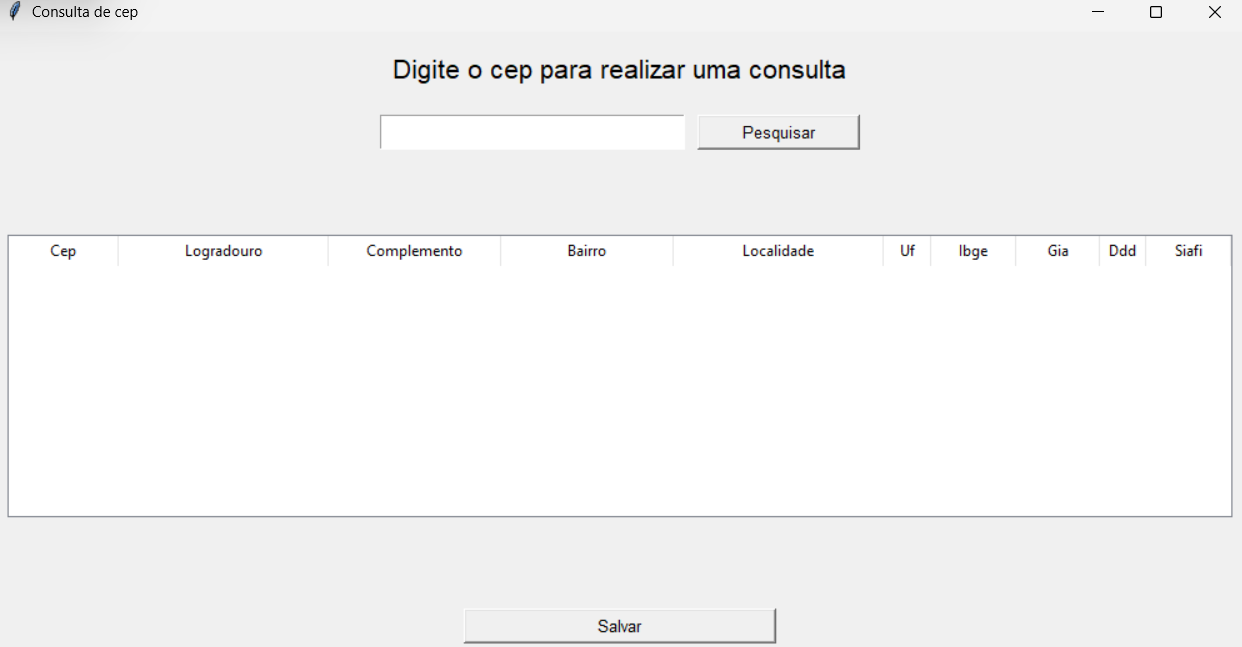
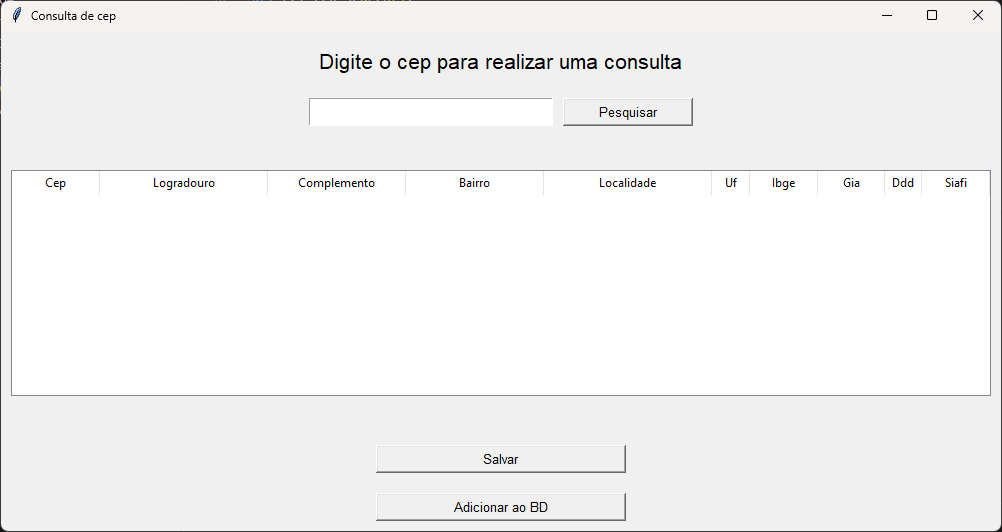
Implementando função insert tabela + README

diff --git a/API_Cep/Cep.py b/API_Cep/Cep.py
@@ -1,6 +1,7 @@
 import requests
 import json
 import os 
+import pyodbc
 from tkinter import  *
 from tkinter import filedialog
 from tkinter import ttk
@@ -8,6 +9,13 @@ from tkinter import messagebox
 
 
 salvar_resultado = None
+       
+conexao_bd = (
+    "Driver={SQL Server};"
+    "Server=.;"  #localhost
+    "Database=TabelaCep;"
+    "Trusted_Connection=yes;"
+)
 
 os.system('cls' if os.name=='nt' else 'clear')
 def get_by_cep(cep):
@@ -69,6 +77,35 @@ def save_file():
         except Exception as e:
             messagebox.showerror("Erro ao salvar, não foi possível salvar o arquivo")
 
+def insert_data_bd():
+    global salvar_resultado
+    if not salvar_resultado:
+        messagebox.showerror("Erro ao adicionar, nenhum CEP consultado") 
+        return
+    
+    ordem_campos_sql = [
+        'CEP', 'Logradouro', 'Complemento', 'Bairro', 'Localidade','UF', 'IBGE', 'GIA', 'DDD', 'SIAFI'
+    ]
+
+    valores_sql=[
+        salvar_resultado.get(campo.lower(),None)
+        for campo in ordem_campos_sql
+
+    ]
+    insert_sql = f"""
+        INSERT INTO dadosCEP({', '.join(ordem_campos_sql)})
+        VALUES ({', '.join(['?']*len(ordem_campos_sql))})
+    """
+
+    conexao = pyodbc.connect(conexao_bd)
+    cursor = conexao.cursor()
+
+    cursor.execute(insert_sql,valores_sql)
+    conexao.commit()
+    messagebox.showinfo("Sucesso, dado adicionado ao banco de dados com sucesso!")
+    conexao.close()
+
+
 janela = Tk()
 janela.title("Consulta de cep")
 janela.geometry("1000x500")
@@ -99,6 +136,9 @@ for i, nome_coluna in enumerate(colunas):
 
 salvar = Button(janela, command=save_file, text="Salvar", width=30,font=("Helvetica",10) )
 salvar.pack(pady=10)
+
+inserirBd = Button(janela, command=insert_data_bd, text="Adicionar ao BD",width=30,font=("Helvetica",10))
+inserirBd.pack(pady=10)
 
 
 janela.mainloop()

diff --git a/API_Cep/README.md b/API_Cep/README.md
@@ -41,15 +41,35 @@ Depois basta digitar o **Cep** que deseja **pesquisar**
 
 <img src='assets/img2.png' width =500>
 
-No campo abaixo serão exibidos todos os dados fornecidos pela api, e caso deseje salvar, basta apertar o botão de salvar em baixo
+___
 
-O arquivo salvo também será em formato .json
+No campo abaixo serão exibidos todos os dados fornecidos pela api, e caso deseje salvar, basta apertar o botão de salvar em baixo
+O arquivo salvo também será em formato **.json**
 
 ### exemplo de arquivo gerado : 
 <img src='assets/img3.png' width =500>
 
+___
 
+## Banco de dados
+Você também pode optar por salvar as informações direto em algum banco de dados, 
+para esse teste eu utilizei o localhost mesmo, tudo isso será configurado na variável
+```Python
+conexao_bd = (
+    "Driver={SQL Server};"
+    "Server=.;"  #localhost
+    "Database=TabelaCep;"
+    "Trusted_Connection=yes;"
+)
+```
+Onde vocêm também determina o nome do banco que vai trabalhar
+<br>
+### Exemplo de execução 
+salvando no banco de dados local :
+<br>
+<img src='assets/img5.png' width =500>
 
+<br>
 
-
-_Nota : proximo passo será realizar a integração com banco de dados, podendo adicionar as informações coletadas pela API no banco._
+Exibição dos dados inseridos no banco
+<img src='assets/img6.png' width =500>
